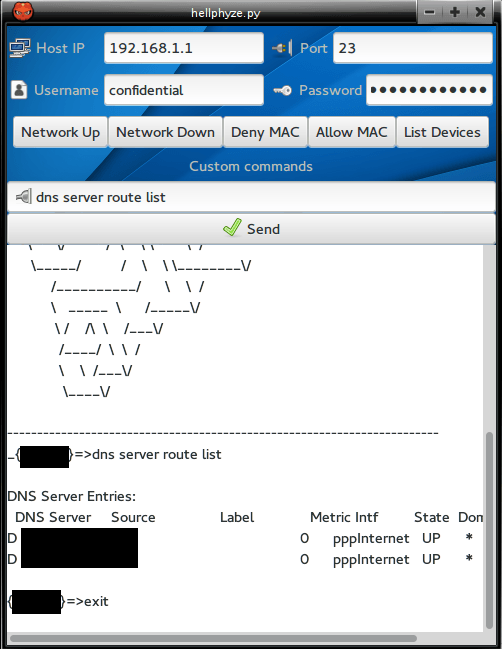
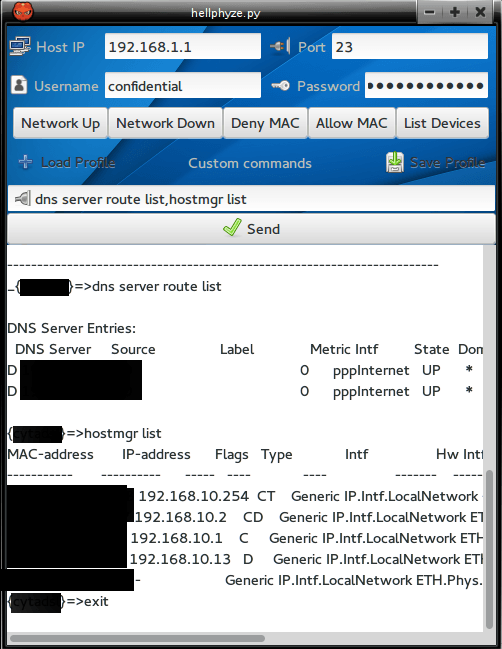
added new things

diff --git a/hellphyze.py b/hellphyze.py
@@ -1,4 +1,6 @@
 #!/usr/bin/python2
+import os
+import getpass
 import telnetlib
 from gi.repository import Gtk
 
@@ -25,6 +27,33 @@ class deny_mac(Gtk.Dialog):
         self.show_all()
 
 class hellphyze:
+
+    def on_load_profile_clicked(self, widget):
+        if not os.path.isfile("/home/" + getpass.getuser() + "/.hellphyze_profile"):
+            dialog_no_profile = Gtk.MessageDialog(None, 0, Gtk.MessageType.WARNING,
+            Gtk.ButtonsType.OK, "Profile file does not exist!")
+            dialog_no_profile.format_secondary_text("")
+            dialog_no_profile.run()
+            dialog_no_profile.destroy()
+        else:
+            with open("/home/" + getpass.getuser() + "/.hellphyze_profile") as read_ip_port_username:
+                for i, line in enumerate(read_ip_port_username.readlines(), 0):
+                    for char in line:
+                        if char in ("\n"):
+                            line = line.replace(char,'')
+                    if i == 0:
+                        self.host_ip.set_text(line)
+                    if i == 1:
+                        self.host_port.set_text(line)
+                    if i == 2:
+                        self.host_username.set_text(line)
+
+    def on_save_profile_clicked(self, widget):
+        profile = open("/home/" + getpass.getuser() + "/.hellphyze_profile", "w")
+        profile.write("{0}\n".format(self.host_ip.get_text()))
+        profile.write("{0}\n".format(self.host_port.get_text()))
+        profile.write("{0}\n".format(self.host_username.get_text()))
+        profile.close()
 
     # type many commands in the "custom commands" field, separated by a ,  do not add spaces !
     def on_send_clicked(self, widget):
